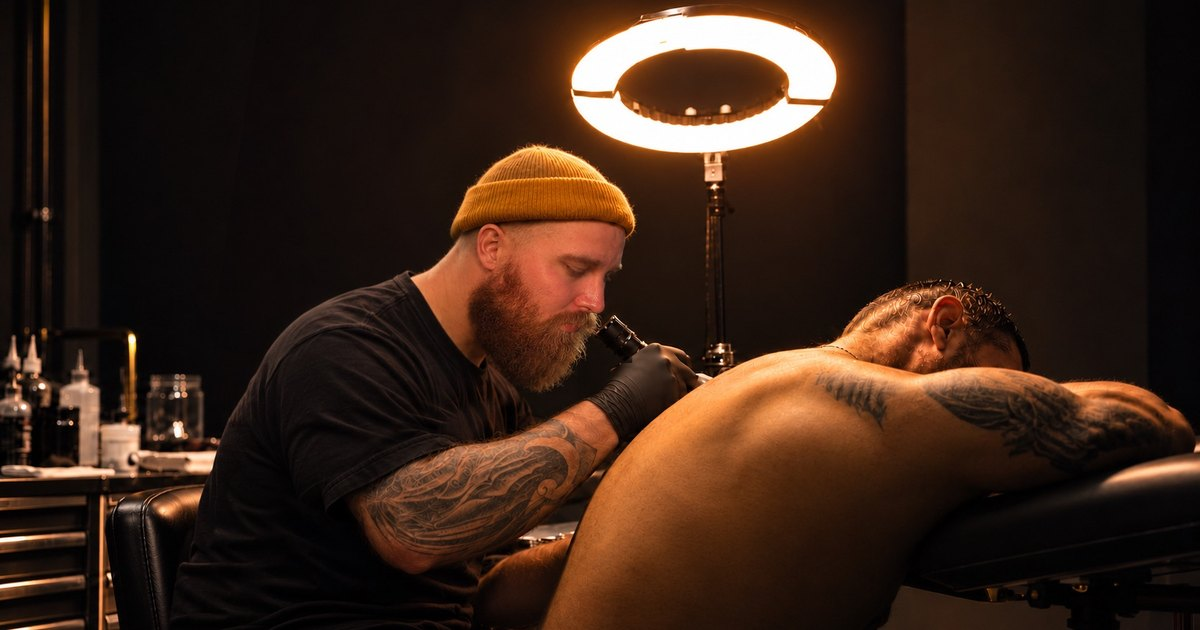
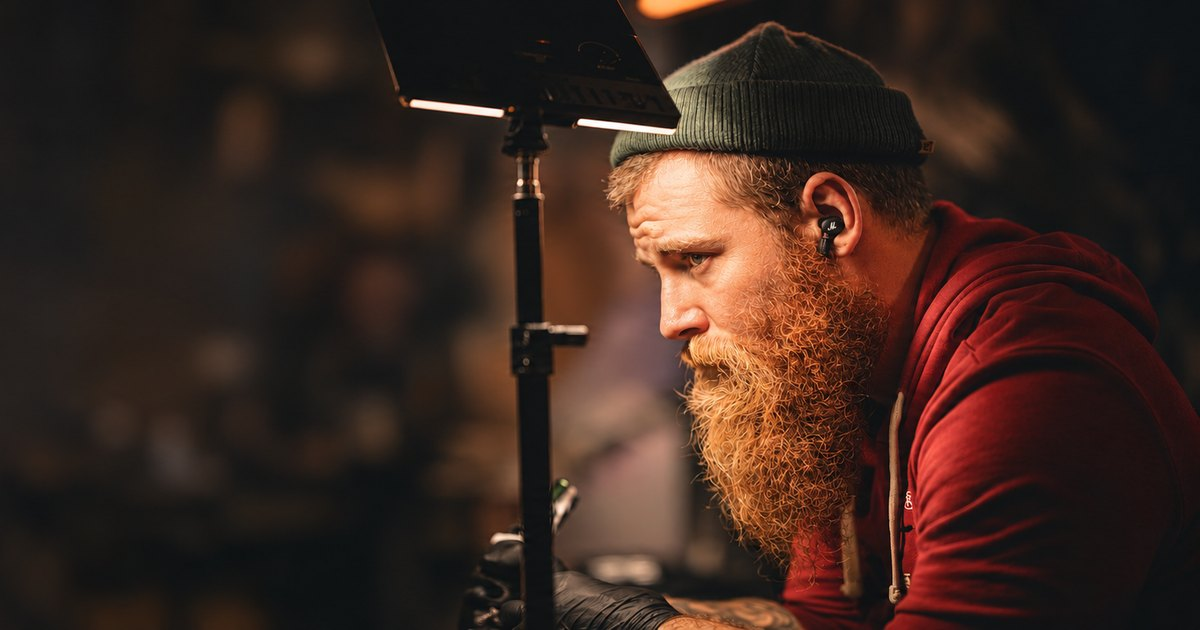
New hero photo: Anatoly at work under the lamp
- assets/hero.jpg: wide 2.65:1 frame encoded from the original PNG
  (2042x770, JPEG q92, 4:4:4, progressive, 236 KB); studio.jpg removed.
- Hero framing for the wide shot: full-width on desktop, cropped from the
  empty left side on narrower screens so Anatoly stays in view; width capped
  by height on screens wider than the frame.
- Social preview (og.jpg) and alt texts updated to the new photo.

diff --git a/style.css b/style.css
@@ -93,11 +93,13 @@ button svg{pointer-events:none}
 .burger i:last-child{width:12px;justify-self:end}
 
 /* Hero */
-/* --hero-h is the hero height; the photo width is capped by it (≈ the 16:9 frame plus a little),
-   so on wide screens the landscape photo is not blown up and cropped top and bottom. */
+/* --hero-h is the hero height. The photo (hero.jpg, 2.65:1) is a wide frame: Anatoly on the
+   right, dark bokeh on the left where the text sits. Narrower screens crop it from the left
+   (object-position keeps him in view); on screens wider than the frame its width is capped by
+   the height, so it is never blown up and cropped top and bottom. */
 .hero{--hero-h:clamp(560px,100svh,1300px);height:var(--hero-h);position:relative;isolation:isolate;overflow:hidden;background:#080a07}
-.hero-ambience{position:absolute;inset:-8%;background:linear-gradient(90deg,#10110ed9,#10110e55),url('assets/studio.jpg') 63% 40%/cover;filter:blur(35px);opacity:.48;z-index:-3}
-.hero-photo{position:absolute;right:0;top:0;width:min(82%,calc(var(--hero-h) * 1.95));height:100%;object-fit:cover;object-position:42% 35%;mask-image:linear-gradient(90deg,transparent,#000 20%),linear-gradient(0deg,transparent,#000 22%);mask-composite:intersect;z-index:-2}
+.hero-ambience{position:absolute;inset:-8%;background:linear-gradient(90deg,#10110ed9,#10110e55),url('assets/hero.jpg') 80% 40%/cover;filter:blur(35px);opacity:.48;z-index:-3}
+.hero-photo{position:absolute;right:0;top:0;width:min(100%,calc(var(--hero-h) * 2.65));height:100%;object-fit:cover;object-position:85% 40%;mask-image:linear-gradient(90deg,transparent,#000 12%),linear-gradient(0deg,transparent,#000 22%);mask-composite:intersect;z-index:-2}
 .hero-shade{position:absolute;inset:0;background:linear-gradient(90deg,#0b0c09bf,transparent 65%),linear-gradient(0deg,#0b0c09,transparent 38%,transparent 84%,#0b0c0955);z-index:-1}
 .hero-copy{position:absolute;left:var(--pad);bottom:86px;max-width:600px}
 .location,.eyebrow{font-size:11px;letter-spacing:.18em;line-height:1.7;color:var(--muted)}
@@ -277,7 +279,7 @@ textarea{resize:vertical;min-height:110px}
 }
 @media(max-width:900px){
   .hero{--hero-h:clamp(560px,100svh,1300px)}
-  .hero-photo{width:100%;object-position:50% 40%;mask-image:linear-gradient(90deg,transparent,#000 18%),linear-gradient(180deg,#000 62%,transparent 82%)}
+  .hero-photo{width:100%;object-position:83% 40%;mask-image:linear-gradient(90deg,transparent,#000 12%),linear-gradient(180deg,#000 62%,transparent 82%)}
   .hero h1{max-width:14ch}
   .hero-copy{max-width:500px}
   .hero-shade{background:linear-gradient(90deg,#0b0c0980,transparent 65%),linear-gradient(0deg,#0b0c09,transparent 70%)}
@@ -298,7 +300,7 @@ textarea{resize:vertical;min-height:110px}
   .menu-button{display:flex;font-size:13px}
   /* Exactly one screen (svh = with the browser bars shown), so the next section never peeks in. */
   .hero{--hero-h:clamp(520px,100svh,1000px)}
-  .hero-photo{height:72%;width:100%;right:0;object-fit:cover;object-position:46% 30%;mask-image:linear-gradient(0deg,transparent 0%,#000 38%,#000 100%)}
+  .hero-photo{height:72%;width:100%;right:0;object-fit:cover;object-position:83% 30%;mask-image:linear-gradient(0deg,transparent 0%,#000 38%,#000 100%)}
   .hero-ambience{opacity:.25}
   .hero-shade{background:linear-gradient(0deg,#0b0c09,transparent 65%,#0b0c0960)}
   .hero-copy{left:24px;right:24px;bottom:50px}
@@ -356,7 +358,7 @@ textarea{resize:vertical;min-height:110px}
    photo on the right, text on the left. */
 @media(orientation:landscape) and (max-height:520px){
   .hero{--hero-h:max(100svh,340px)}
-  .hero-photo{width:min(72%,calc(var(--hero-h) * 1.95));height:100%;object-position:45% 30%;mask-image:linear-gradient(90deg,transparent,#000 22%),linear-gradient(0deg,transparent,#000 25%)}
+  .hero-photo{width:min(100%,calc(var(--hero-h) * 2.65));height:100%;object-position:85% 30%;mask-image:linear-gradient(90deg,transparent,#000 12%),linear-gradient(0deg,transparent,#000 25%)}
   .hero-shade{background:linear-gradient(90deg,#0b0c09d9,transparent 60%),linear-gradient(0deg,#0b0c09,transparent 40%)}
   .hero-copy{left:var(--pad);right:auto;bottom:24px;max-width:46%}
   .hero h1{font-size:28px;max-width:14ch}

diff --git a/index.html b/index.html
@@ -30,7 +30,7 @@
   <meta property="og:image" content="https://arbacat.github.io/tatto_Anatoly_page/assets/og.jpg">
   <meta property="og:image:width" content="1200">
   <meta property="og:image:height" content="630">
-  <meta property="og:image:alt" content="Anatoly pri tetovaní v teplom svetle štúdiovej lampy">
+  <meta property="og:image:alt" content="Anatoly sústredený pri tetovaní pod štúdiovou lampou">
   <meta name="twitter:card" content="summary_large_image">
   <script type="application/ld+json">
   {
@@ -67,7 +67,7 @@
   <main id="main">
     <section class="hero" id="top" aria-labelledby="hero-title">
       <div class="hero-ambience" aria-hidden="true"></div>
-      <img class="hero-photo" src="assets/studio.jpg" alt="Anatoly pri tetovaní v teplom svetle štúdiovej lampy" fetchpriority="high">
+      <img class="hero-photo" src="assets/hero.jpg" alt="Anatoly sústredený pri tetovaní pod štúdiovou lampou" fetchpriority="high">
       <div class="hero-shade" aria-hidden="true"></div>
       <div class="hero-copy">
         <p class="location" lang="en">TATTOO ARTIST & PAINTER</p>

diff --git a/README.md b/README.md
@@ -51,6 +51,6 @@
 
 Публичные фотографии из предоставленного HTML и [актуального профиля Анатолия](https://www.instagram.com/anatoly.tattoo/). Биографическая основа — [профиль студии](https://www.madramtattoo.sk/anatolij-tattoo-artist/).
 
-Портфолио использует оригинальные фотографии, без генеративной перерисовки татуировок. Первый экран — горизонтальный кадр процесса под кольцевой лампой (1672 × 941, `assets/studio.jpg`), справа на всю высоту, с затемнением слева и снизу под текст.
+Портфолио использует оригинальные фотографии, без генеративной перерисовки татуировок. Первый экран — широкий кадр 2,65 : 1 (2042 × 770, `assets/hero.jpg`, JPEG q92 из оригинального PNG): Анатолий справа под лампой, слева тёмное боке под текст. На экранах уже кадра он обрезается слева, на более широких ширина ограничена высотой.
 
 Подборка включает работы разных лет и не выдаётся за хронологическую ленту последних публикаций. Цены, свободные даты и доступность flash не придуманы и не показаны. Тексты сайта — черновик для согласования с Анатолием.
